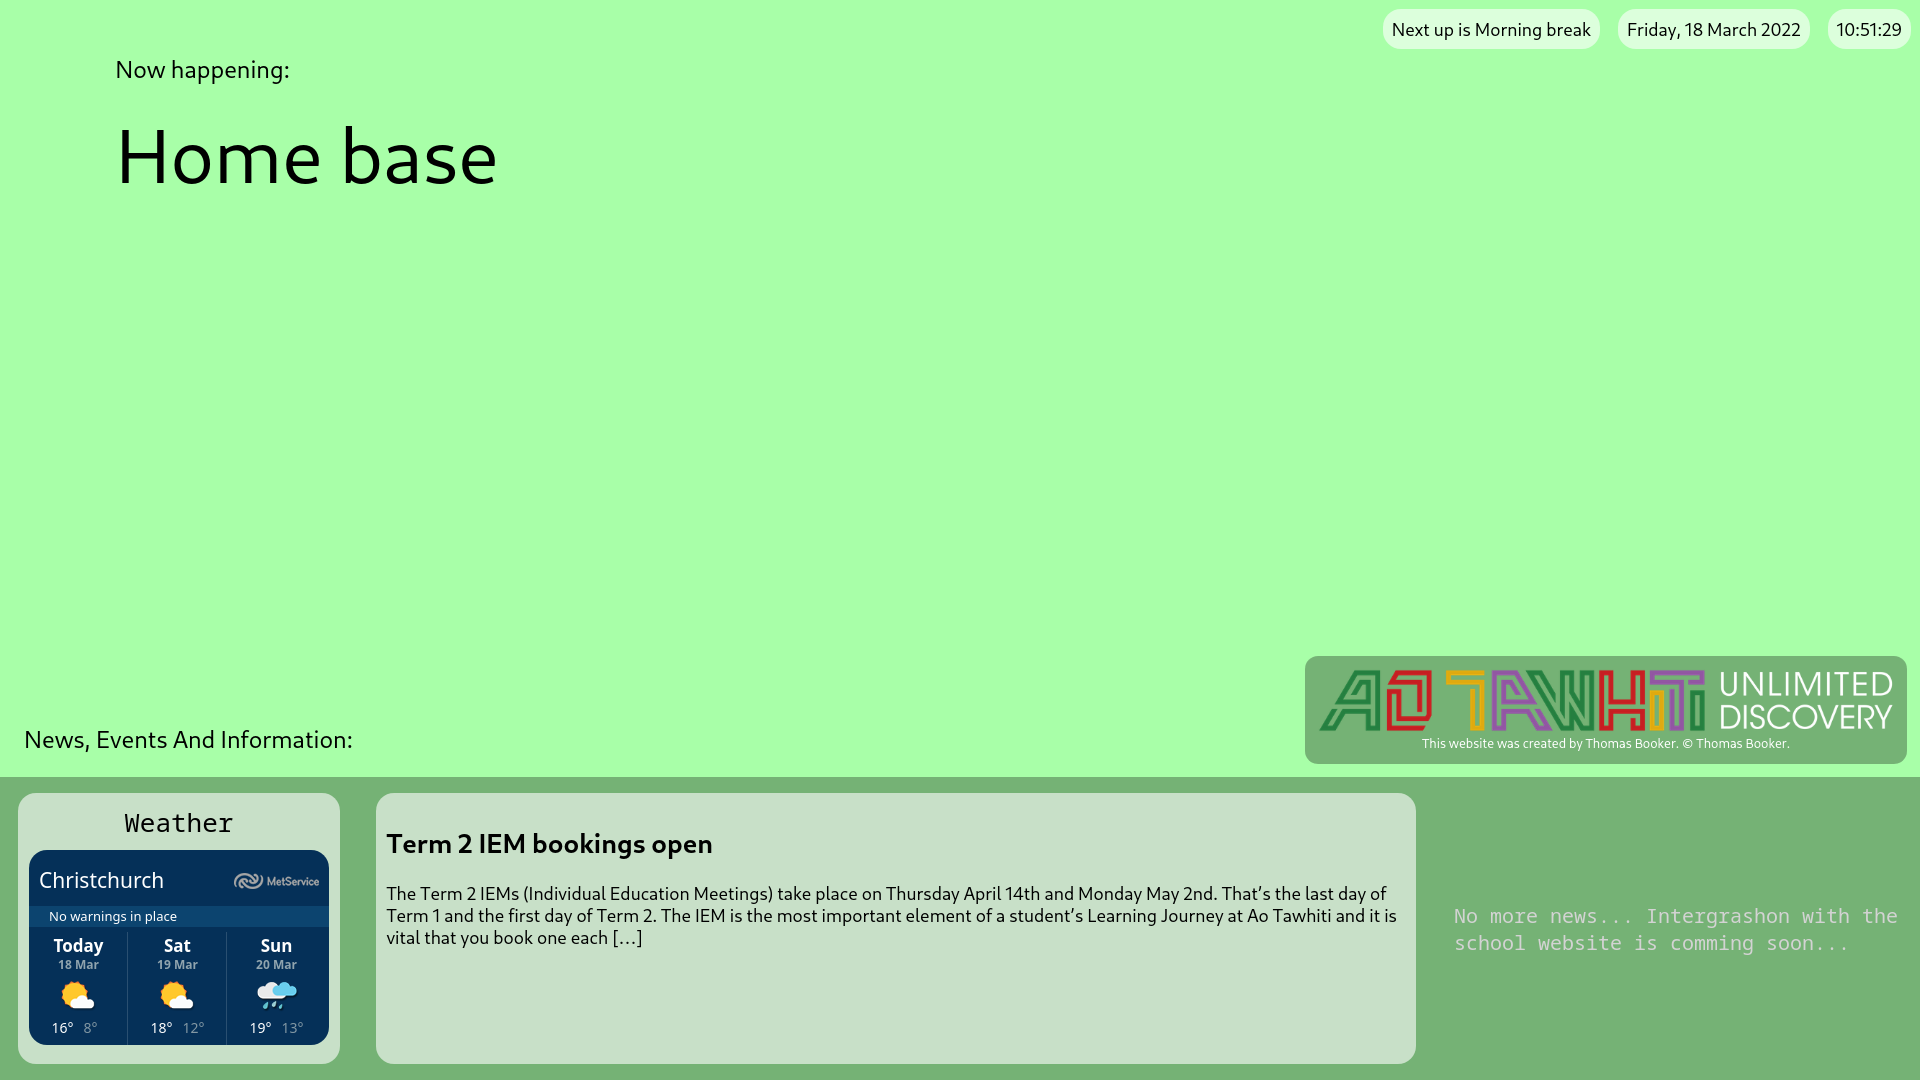
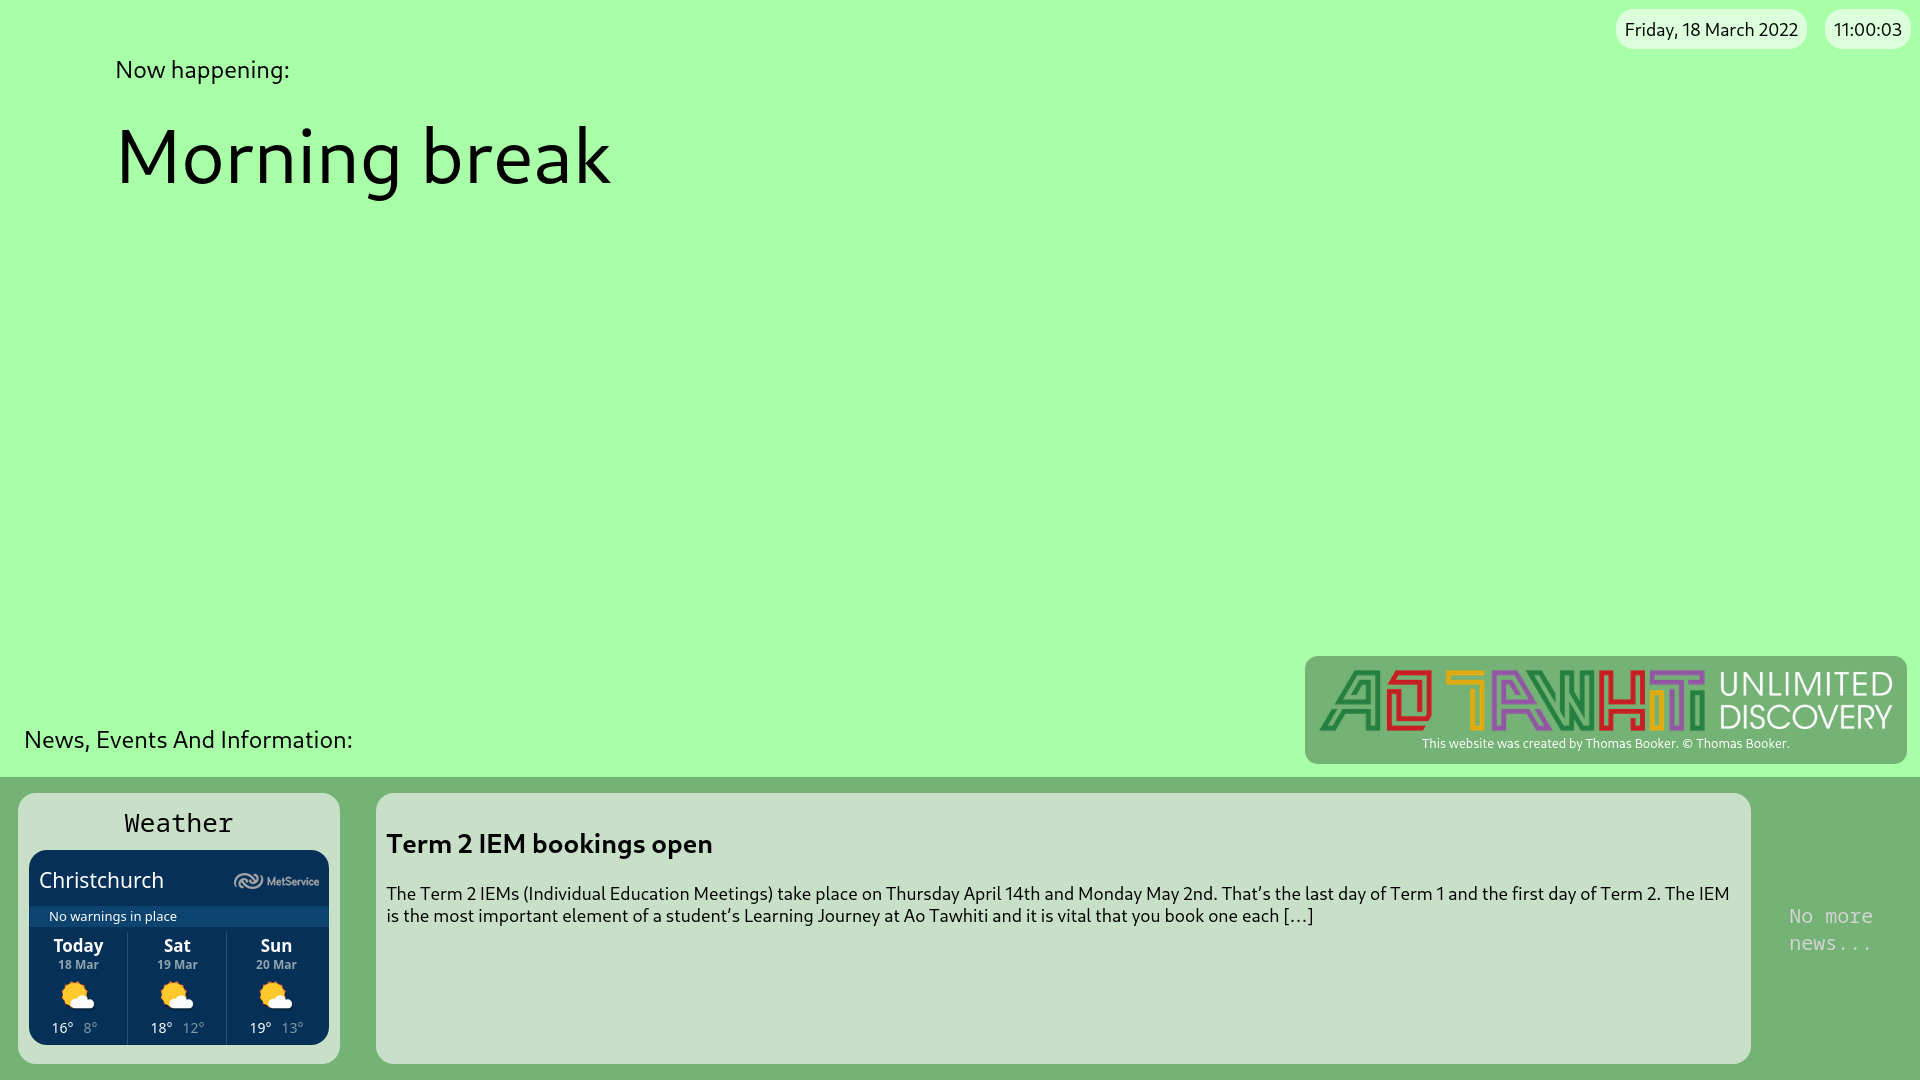
Test

diff --git a/index.html b/index.html
@@ -265,7 +265,7 @@
 				
 			</div>
 			<samp style="color: lightgray; font-size: x-large; margin-left: 1em">
-				No more news... Intergrashon with the school website is comming soon...
+				No more news...
 			</samp>
 		</footer>
 	</body>
